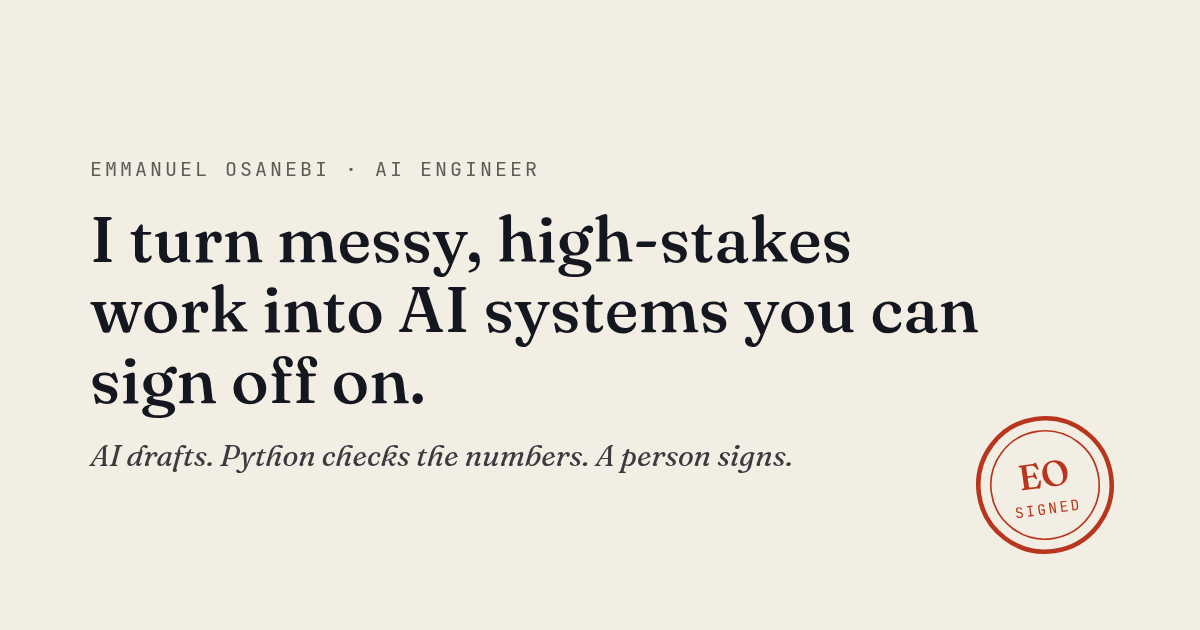
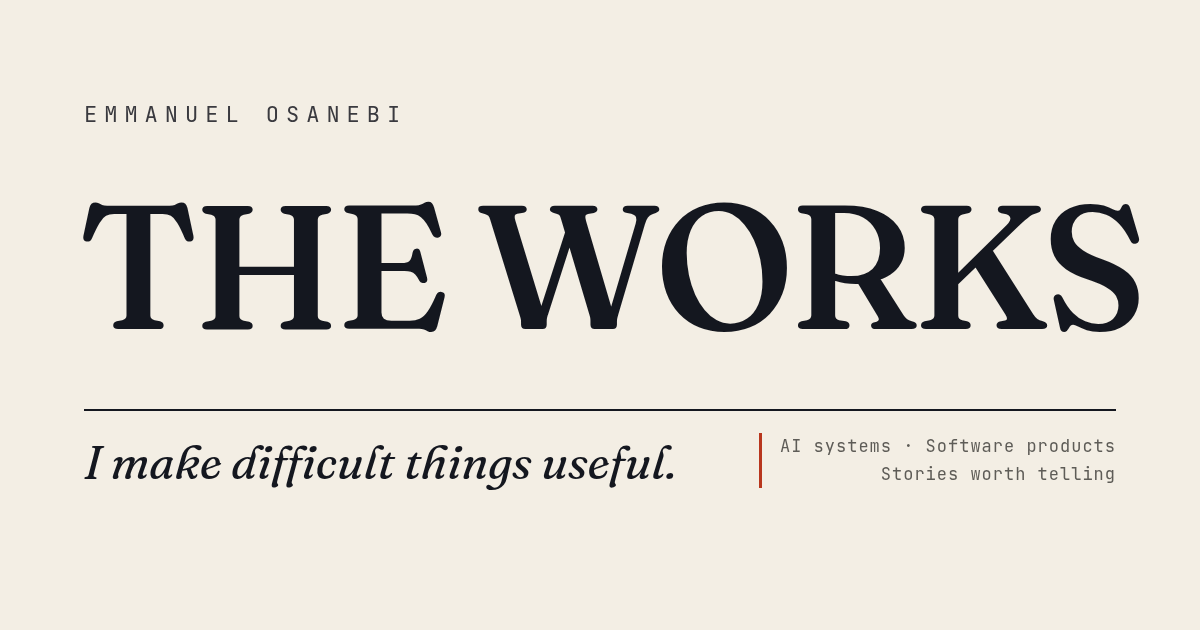
THE WORKS: drop 'Business ideas' from hero/meta, new THE WORKS share image (og.png 1200x630) with alt text (Emmanuel via Grok Bot, Nov 18 9:42 PM)

diff --git a/src/content/profile.ts b/src/content/profile.ts
@@ -290,6 +290,7 @@ export const profile: Profile = {
     archive: 'Earlier CV repos: profile.md §4.8. Chatflow: live emms204.github.io description, read 18 Nov 2026 (kept per concept Page "every working link")',
     works: 'THE WORKS slice (IMPL-20261118-02): hero, entry question, three dimensions and the accountable-AI supporting line from the external creative audit chosen by Emmanuel (via Grok Bot, Nov 18 8:56 PM). Offer names: the same audit (AI Strategy & Architecture, Custom AI Systems, Product Engineering, Engineering Collaboration); offer contents re-use only verified case-file facts above; engagement steps and pricing "On request" (no verified engagement process). Products: profile.md §4.2–4.4, §4.7. Outside work allowed by contract: Emmanuel via Grok Bot, Nov 18',
     proofBench: 'Proof Bench: SYNTHETIC data written for the illustration (bank line ACME SVCS / Invoice 1042 / $1,250.00 and ledger INV-1042 / ACME SERVICES / $1,250.00 from the brief; Globex example invented as synthetic test data, not a client). Pattern (model proposes, deterministic code checks, a person approves) per profile.md §3 product-level description; no product or company named in the demo',
+    heroLines: 'Hero lines "AI systems. Software products. Stories worth telling." ("Business ideas" dropped; collaborate intent sub-line softened from "Ventures"): Emmanuel via Grok Bot, Nov 18 9:42 PM. Share image og.png regenerated for THE WORKS at the same time',
     formspree: 'Formspree endpoint https://formspree.io/f/xjywrjrz: Emmanuel via Grok Bot, Nov 18 9:00 PM',
     caseFiles: 'Case files: CV (cv-source HTML) + profile.md §3/§4, product-level for MasteryHive. Withheld metrics (VoterIQ 40%, Enzagroup 95%/20+ types, etc.) stay withheld',
   },
@@ -707,14 +708,15 @@ const ask = (intent: IntentKey) => `/contact/?intent=${intent}#inquiry`;
 
 export const works = {
   meta: {
-    title: 'Emmanuel Osanebi — The Works: AI systems, software products, ideas and stories',
-    description: 'Emmanuel Osanebi, AI Engineer. I make difficult things useful: AI systems, software products, business ideas and stories worth telling. AI drafts, Python checks, a person signs.',
+    title: 'Emmanuel Osanebi — The Works: AI systems, software products and stories',
+    description: 'Emmanuel Osanebi, AI Engineer. I make difficult things useful: AI systems, software products and stories worth telling. AI drafts, Python checks, a person signs.',
+    ogAlt: 'Emmanuel Osanebi — THE WORKS. I make difficult things useful.',
   },
   hero: {
     name: 'Emmanuel Osanebi',
     title: 'The Works',
     statement: 'I make difficult things useful.',
-    lines: ['AI systems.', 'Software products.', 'Business ideas.', 'Stories worth telling.'],
+    lines: ['AI systems.', 'Software products.', 'Stories worth telling.'],
     support: 'AI drafts, Python checks, a person signs.',
     supportNote: 'The rule behind the systems: the model proposes, deterministic code checks the numbers, and a person approves anything that matters.',
     role: 'AI Engineer · MasteryHive AI · Python / FastAPI · LLM agents and automation',
@@ -764,7 +766,7 @@ export const works = {
         second: { label: 'Talk about a role or contract', href: ask('hire') },
       },
       {
-        key: 'collaborate', label: 'Explore an idea / collaborate', sub: 'Ventures, writing, stories',
+        key: 'collaborate', label: 'Explore an idea / collaborate', sub: 'Writing, stories, new projects',
         headline: 'I write, build and tell stories. If you have an idea worth making, bring it.',
         evidenceTitle: 'Where the creative work lives',
         evidence: [
